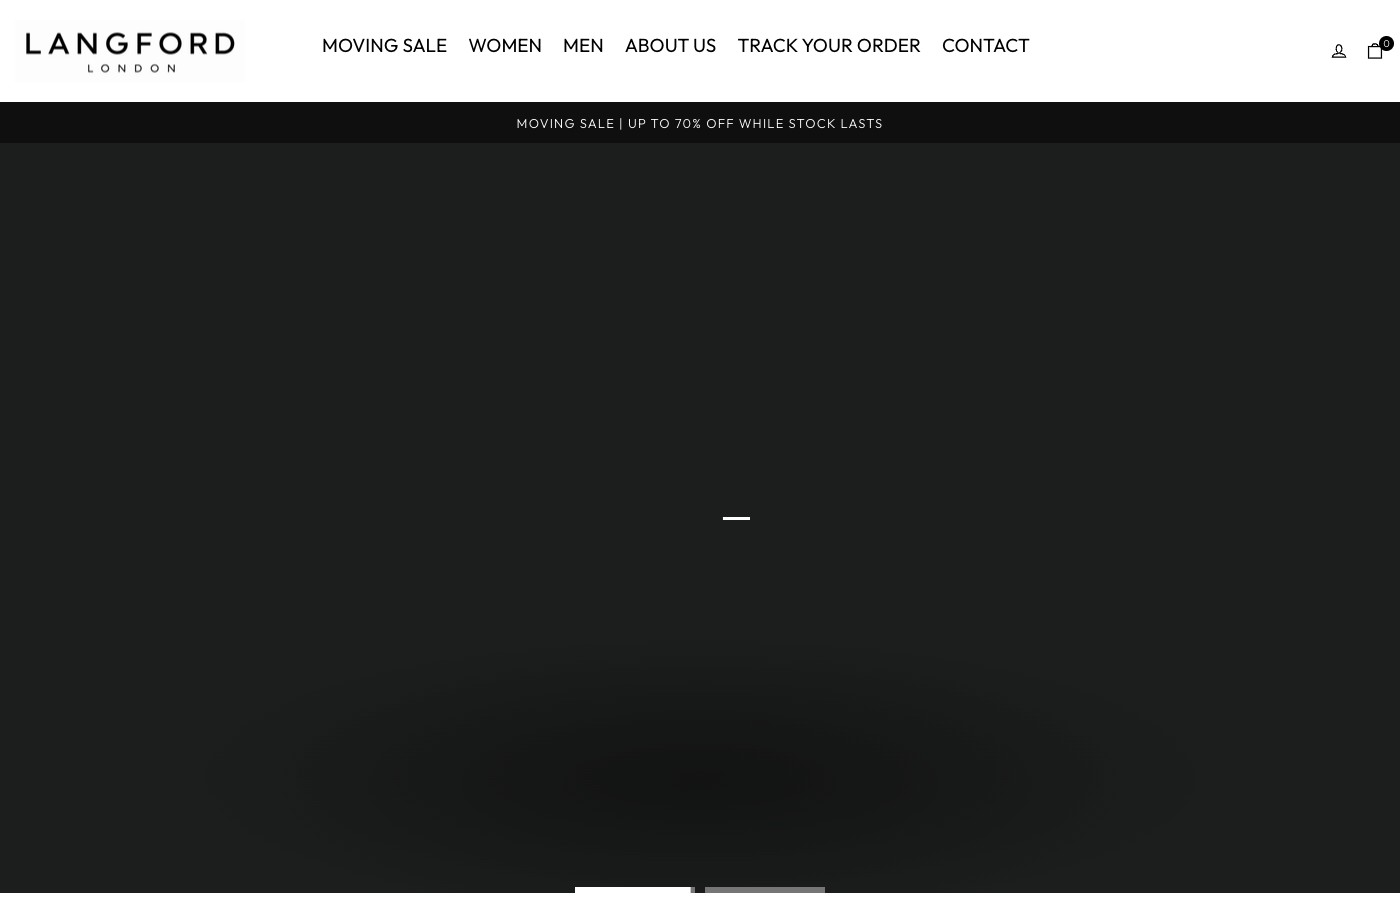
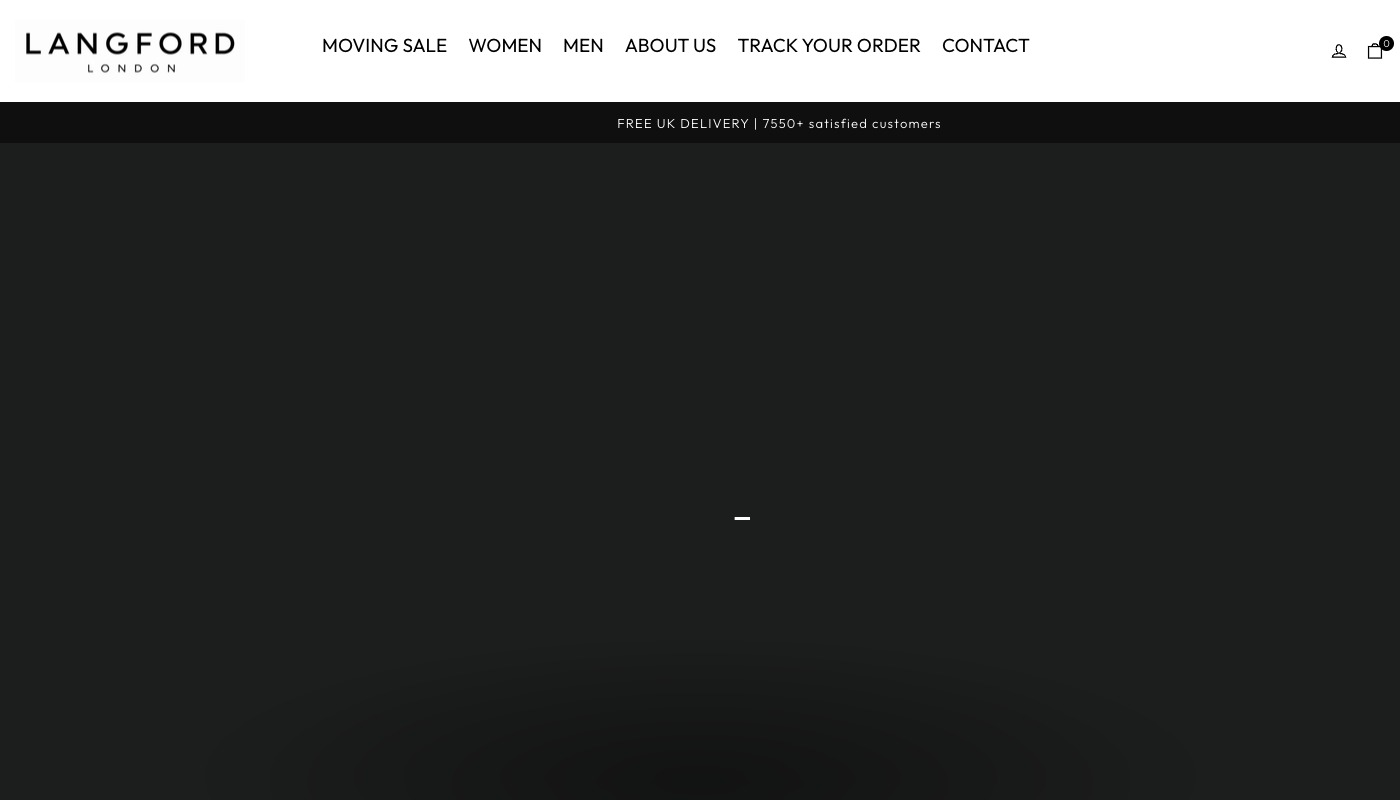
Fix London Langford cover image — use user-provided screenshot

Changed region(s): [[0.0, 0.0312, 1.0, 0.1562], [0.0, 0.9688, 1.0, 1.0], [0.215, 0.0312, 0.7371, 0.0625]]

diff --git a/src/data/projects.ts b/src/data/projects.ts
@@ -59,7 +59,7 @@ export const projects: Project[] = [
     year: 2026,
     location: "Remoto",
     liveUrl: "https://londonlangford.com/",
-    cover: "/images/project-londonlangford.jpg",
+    cover: "/images/project-londonlangford.png",
     rotation: "md:rotate-[-1deg]",
   },
 ];
